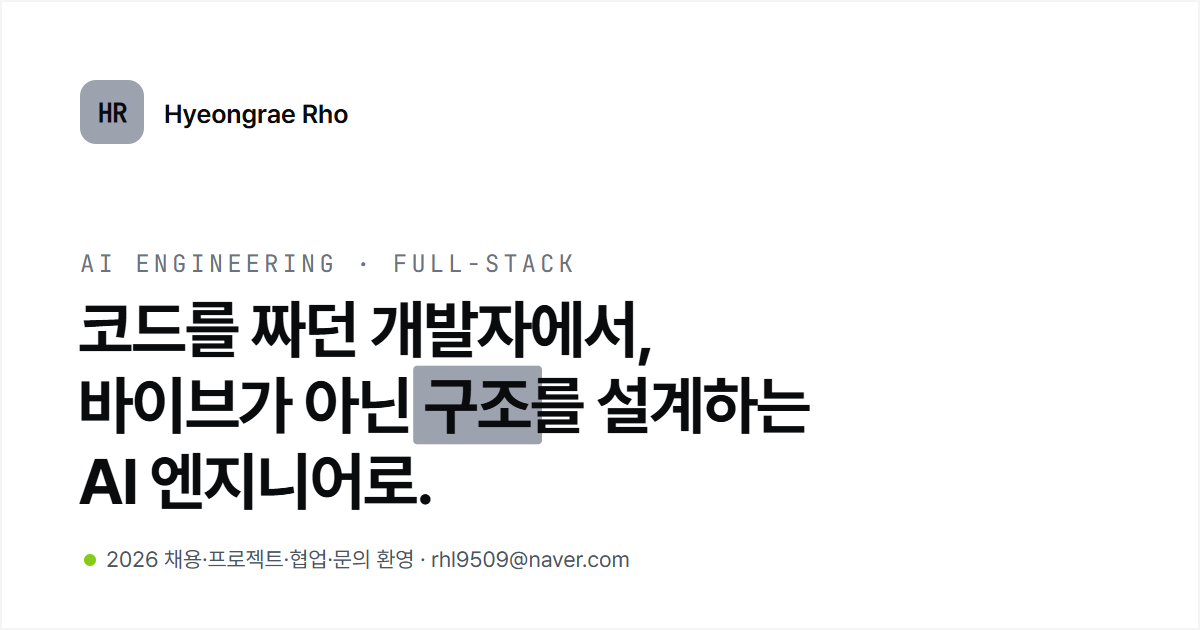
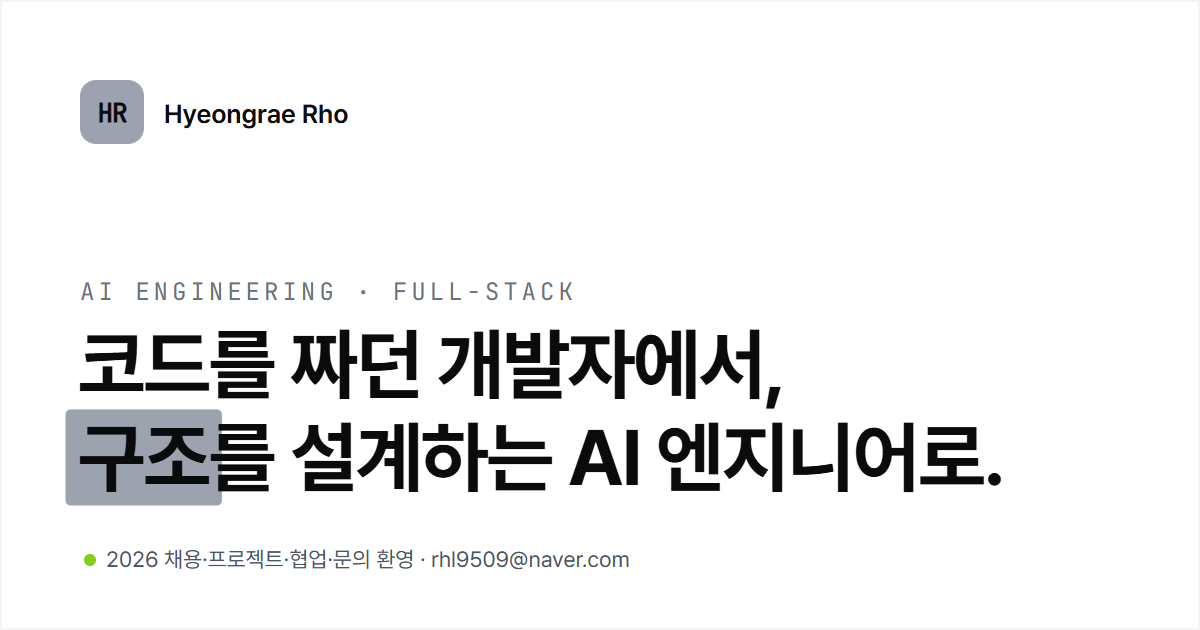
h1에서 '바이브가 아닌' 삭제 — 구조를 설계하는 AI 엔지니어로
2줄째가 짧아져 OG 카드도 원래 2줄 78px 레이아웃으로 복원(하이라이트
박스는 재실측 — 구조가 줄 앞이라 좌측 여백으로 패딩이 나감).

Changed region(s): [[0.0308, 0.3921, 0.8325, 0.8143]]

diff --git a/Portfolio.tsx b/Portfolio.tsx
@@ -401,12 +401,10 @@ a.pf-visit:hover { color: var(--ink); border-color: var(--ink); background: var(
   .pf-social-row { flex-direction: column; align-items: stretch; }
   .pf-social { justify-content: center; height: 44px; }
   /* the <br> in the headline is load-bearing: it stands in for the only space
-     between "개발자에서," and "바이브가". Hiding it welds them into one token
+     between "개발자에서," and "구조를". Hiding it welds them into one token
      that word-break: keep-all refuses to split, and the card overflows.
-     "AI 엔지니어로." is glued with &nbsp; instead of a second <br>: a hard
-     break there fits wide screens but strands "설계하는" alone on tablets —
-     the nbsp lets each width break at whichever space it needs while never
-     splitting AI from 엔지니어로. */
+     "AI 엔지니어로." is glued with &nbsp; so no width ever splits AI from
+     엔지니어로 — narrow screens break before AI instead. */
 }
 
 /* ── 6) ≤400px · 소형 휴대폰 ──────────────────────────────────── */
@@ -511,7 +509,7 @@ export default function Portfolio({
   tagline = "AI Engineering · Full-stack",
   headline = (
     <>
-      코드를 짜던 개발자에서,<br />바이브가 아닌{" "}
+      코드를 짜던 개발자에서,<br />
       <span style={{ background: V.hlBg, color: V.hlInk, padding: "0.02em 0.16em", borderRadius: "var(--radius-xs)", WebkitBoxDecorationBreak: "clone", boxDecorationBreak: "clone" }}>구조</span>를 설계하는 AI&nbsp;엔지니어로.
     </>
   ),
